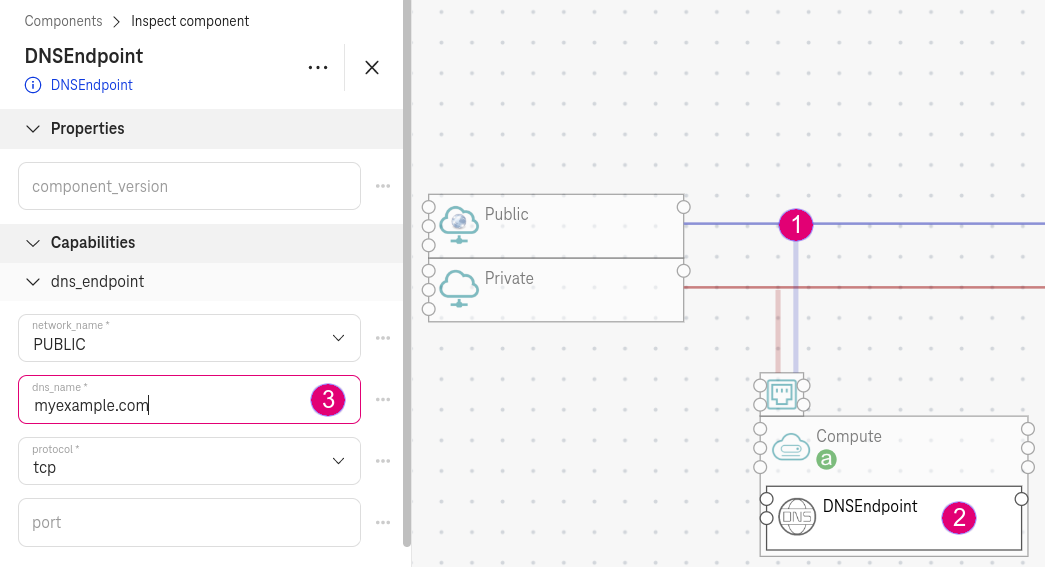
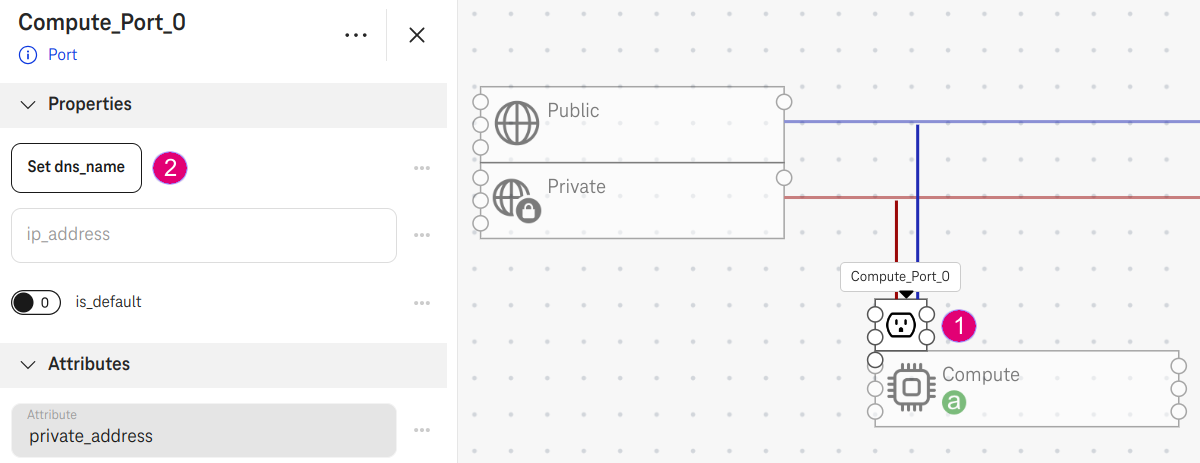
Update doc with DNS public and private record set type A (#15)
Update doc with DNS public and private record set type A

diff --git a/umn/source/network/dns.rst b/umn/source/network/dns.rst
@@ -4,55 +4,86 @@ How to create a DNS
 
 .. _DNS:
 
-You can create a Domain Name Service so that users can access your compute via the domain name instead of a floating IP address.
+You can create a Domain Name Service so that users can access your compute via the domain name instead of a floating or private IP address.
 
-1. Steps
-========
+1. How to create a public DNS
+=============================
 
 1. Connect a **Compute** to the **Public** network.
-2. Put the component **DNSEndpoint** on the Compute.
-3. Input :code:`myexample.com` in the **dns_name** field of the DNSEndpoint.
+2. Click on the network port and set the **dns_name**.
 
 .. figure:: /_static/images/service-catalogs/dns1.png
   :width: 800
 
-  Figure 1. DNS Endpoint
+  Figure 1. Compute in a public network
 
-2. Expect result
-================
+3. Input the **Domain** and **Subdomain** field (e.g., :code:`myexample.com` and :code:`www`, respectively)
 
-1. One DNS public zone :code:`myexample.com.` with 2 record sets type A :code:`myexample.com.` and :code:`www.myexample.com.`  will be created on Open Telekom Cloud.
-
-2. The record sets point to the floating IP of the public compute, which hosts the DNSEndpoint component (e.g., :code:`80.158.62.203`).
-
-.. figure:: /_static/images/service-catalogs/dns2.png
+.. figure:: /_static/images/service-catalogs/dns1b.png
   :width: 800
 
-  Figure 2. DNS record sets are created on Open Telekom Cloud
+  Figure 2. Input
 
-3. Test
-=======
+.. note::
 
-1. Update your domain name at the registration service to the nameservers of Open Telekom Cloud: :code:`ns1.open-telekom-cloud.com` and :code:`ns2.open-telekom-cloud.com`.
+  The domain must be globally unique in the Domain Name Service of Open Telekom Cloud.
+
+.. note::
+
+  * Blank subdomain: Traffic will be routed to the domain :code:`myexample.com`.
+  * Subdomain "www": Traffic will be routed to :code:`www.myexample.com`, which is usually used for a website.
+  * Subdomain "*": Traffic will be routed to any subdomain of the domain.
+
+
+Expect result
+-------------
+
+1. One DNS public zone :code:`myexample.com.` with one record set type A :code:`www.myexample.com.` pointing to the **floating IP** of the public compute (e.g., :code:`80.158.91.193`).
+
+.. figure:: /_static/images/service-catalogs/dns2.png
+  :width: 900
+
+  Figure 2. Record set points to floating IP address
+
+Test
+----
+
+1. Update your domain name at the registration service to the nameservers of Open Telekom Cloud: :code:`ns1.open-telekom-cloud.com` and :code:`ns2.open-telekom-cloud.com`. Or to test on localhost, update the nameservers of your localhost to the nameservers of Open Telekom Cloud.
 2. Test your domain is resolved to the floating IP:
 
 .. code-block:: bash
 
-  $ dig myexample.com
-  ...
+  $ dig www.myexample.com
+
+  ;; QUESTION SECTION:
+  ;www.myexample.com.   IN  A
 
   ;; ANSWER SECTION:
-  myexample.com.    300 IN  A 80.158.62.203
-
-  ;; AUTHORITY SECTION:
-  myexample.com..   172800  IN  NS  ns1.open-telekom-cloud.com.
-  myexample.com..   172800  IN  NS  ns2.open-telekom-cloud.com.
-
-  ;; ADDITIONAL SECTION:
-  ns2.open-telekom-cloud.com. 300 IN  A 93.188.242.252
-  ns1.open-telekom-cloud.com. 300 IN  A 80.158.48.19
+  www.myexample.com.  300 IN  A 80.158.91.193
 
 .. note::
 
   * The DNS zone takes effect only after you update the nameservers of your domain at the domain registrar to: :code:`ns1.open-telekom-cloud.com` and :code:`ns2.open-telekom-cloud.com`
-  * This feature is not yet supported for Google Cloud. `Contact us <https://open-telekom-cloud.com/de/kontakt>`_ for feature request.
+
+.. _DNS Private:
+
+2. How to create a private DNS
+==============================
+
+1. Put the compute in a private network (i.e., the network port does not connect to a public network)
+2. Click on the network port and set the **dns_name** (same as above).
+
+.. figure:: /_static/images/service-catalogs/dns3.png
+  :width: 800
+
+  Figure 3. Compute in a private network
+
+Expect result
+-------------
+
+* One DNS private zone :code:`myexample.com.` with one record set type A :code:`www.myexample.com.` pointing to the private IP address of the network port (e.g., :code:`10.0.0.147`)
+
+.. figure:: /_static/images/service-catalogs/dns4.png
+  :width: 900
+
+  Figure 4. Record set points to private IP address

diff --git a/umn/source/service_catalogs/openshift.rst b/umn/source/service_catalogs/openshift.rst
@@ -10,8 +10,8 @@ OpenShift template
 The following tutorial shows you how to register a (trial) subscription key from Red Hat and uses it to create an OpenShift cluster using the OpenShift template.
 
 .. important::
-  * The OpenShift template deploys a `Self-managed OpenShift Container Platform <https://www.redhat.com/en/technologies/cloud-computing/openshift/container-platform>`_ on Open Telekom Cloud using your subscription license key. Once installed, Red Hat OpenShift uses Kubernetes Operators for push-button, automatic platform updates for the container host, Kubernetes cluster, and application services running on the cluster. It also includes the following built-in technologies: Knative, Istio, Prometheus, Jenkins, Node.js, Operators, and Red Hat AMQ Streams.
-  * Your subscription will cover technical support from Red Hat and upgrades between OpenShift versions. `Read more <https://www.redhat.com/en/about/value-of-Red-Hat>`_.
+  * The OpenShift template deploys a `Self-managed OpenShift Container Platform <https://www.redhat.com/en/technologies/cloud-computing/openshift/container-platform>`_ on Open Telekom Cloud with Bring Your Own License (BYOL).
+  * Your license/subscription will cover technical support from Red Hat as well as upgrades between OpenShift versions. `Read more <https://www.redhat.com/en/about/value-of-Red-Hat>`_.
   * Supported versions: 4.12.39 and 4.13.x.
 
 2. How to use

diff --git a/umn/source/components_overview.rst b/umn/source/components_overview.rst
@@ -22,8 +22,8 @@ Subnets and regions     :ref:`google static subnets`                            
 Security groups         :ref:`Create security group rules manually<Security group manual>`                           Yes                   Yes
 Security groups         :ref:`Auto-generated security group rules <Security group auto generated>`                   Yes                   Yes
 SNAT / Cloud Gateway    VMs with no floating ip can make outgoing requests to the Internet                           Yes                   No (2w)
-DNS                     :ref:`Auto-generated DNS record set type A pointing to floating IP of network port <DNS>`    Yes                   No
-DNS                     :ref:`Auto-generated DNS record set type A pointing to floating IP of network port <DNS>`    Yes                   No
+DNS                     :ref:`Create DNS record set type A pointing to floating IP of network port <DNS>`            Yes                   No
+DNS                     :ref:`Create DNS record set type A pointing to private IP of network port <DNS Private>`     Yes                   No
 VirtualIP               Create a Virtual IP Address and bind to multiple network ports as allowed addresses pair     Yes                   No
 ======================  ===========================================================================================  ====================  ==============
 
